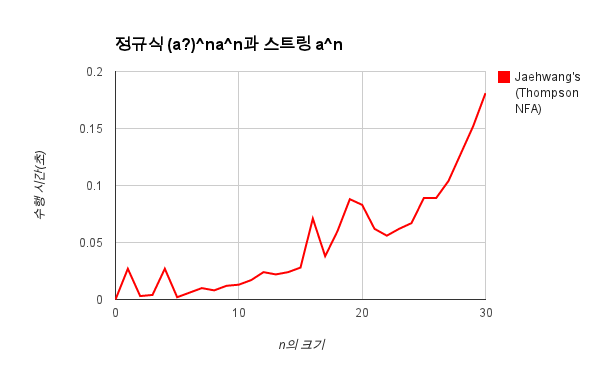
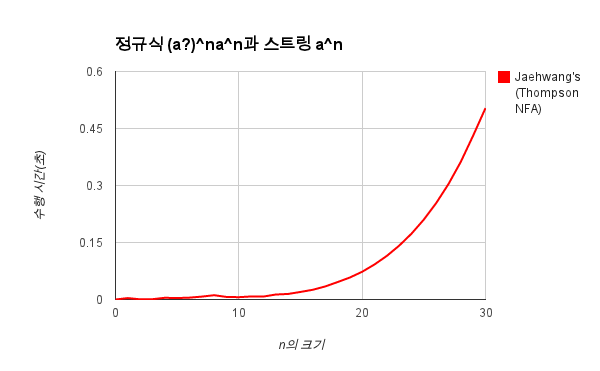
time complexity 추가

diff --git a/doc/a.tex b/doc/a.tex
@@ -35,7 +35,7 @@ microsenconds인 점을 주목하라.
 
 Figure \ref{fig:graph}의 결과는 backtracking의 존재 여부에 따른 것이다.
 오늘날 거의 대부분의 프로그래밍 언어들은 속도 보다는 backreference 등의 기능을 
-제공하기 위해  NFA 기반의 정규 표현식 구현을 채택하고
+제공하기 위해 NFA와 backtracking 기반의 정규 표현식 구현을 채택하고
 있다.
 
 \begin{block}{Example}
@@ -65,11 +65,21 @@ match된다는 것을 알 수 있다. 하지만 NFA 기반 정규 표현식 matc
 \frametitle{수행 시간이 입력의 크기에 선형적으로 비례하는 Regular Expression Matcher}
 
 실제 정규 표현식의 적용에서 backreference 등 유연하고 
-다양한 feature가 필요 없는 경우가 많다.
+다양한 feature가 필요 없는 경우가 많다. 
+느린 수행 시간은 ReDoS\footnote{\href{http://en.wikipedia.org/wiki/ReDos}{Regular expression denial of service}}와 
+같은 보안 취약점이 될 수도 있다.
 여기서 speed, reliability 등이 보장되는 regular expression matcher의 
-필요성이 대두 된다.
+필요성이 대두 된다. 
 
-개발자에게 하나의 선택권만 주는 것 보다는 하나의 옵션을 더 제공함으로써
-요구사항에 맞는 기능을 개발할 수 있게 할 필요가 있다.
+정규 표현식 $re$의 크기(혹은 NFA 상태 수) $m$, 
+입력 스트링의 길이를 $n$이라고 할 때, $re$를 FA로 변환하고 match하는 경우의
+time complexity이다:
 
+\begin{itemize}
+\item NFA : $O(m) + O(2^n)$
+\item DFA : $O(m2^m) + O(n)$
+\end{itemize}
+
+우리가 원하는 regular expression matcher는 $O(2^n)$이나 $O(m2^n)$ 같은 것이
+없어야 한다.
 \end{frame}

diff --git a/doc/r.tex b/doc/r.tex
@@ -83,7 +83,7 @@ $L(re)$:
 우리가 만들고자 하는 regular expression matcher \M의 
 specification을 다음과 같이 정의하자.
 
-\begin{block}
+\begin{block}{Requirement 1}
 
 \[
     \M : \mbit{Regex} \times \mbit{String} \ra \mbit{Bool}
@@ -92,7 +92,7 @@ specification을 다음과 같이 정의하자.
 In order to be a correct solution of regular expression matcher problem, 
 our regular expression matcher \M{} is supposed to satisfy the following:
  \[
-    \rmatch{s}{re} = \T \Lra s \in L(re) 
+    \mbrm{Req 1.}\ \rmatch{s}{re} = \T \Lra s \in L(re) 
  \]
 where $s$ is a string and $re$ is a regular expression.
 
@@ -104,10 +104,8 @@ where $s$ is a string and $re$ is a regular expression.
 \]
 \end{block}
 
-
-여기에 다음의 조건 하나를 추가 한다.
-\begin{quote}
-수행 시간은 입력의 길이에 선형적으로 비례해야 한다. 
-\end{quote}
+\begin{block}{Requirement 2}
+수행 시간은 $|re|$, $|s|$에 지수적으로 비례해서 길어지는 경우가 없어야 한다.
+\end{block}
 
 \end{frame}

diff --git a/doc/t.tex b/doc/t.tex
@@ -31,12 +31,6 @@ for (my $ssize = 1; $ssize<=30; $ssize++) {
 \begin{frame}
     \frametitle{Test Results}
 
-NFA 기반의 정규 표현식 구현은 backtracking이 많은 경우에는 치명적인
-성능 문제를 일으킬 잠재적인 위험이 있다.
-
-우리의 구현 \MM은 backtracking이 없기 때문에 입력값의 길이에 선형적으로
-비례하는 수행 시간을 보여 준다.
-
 \[
     \rmatch{a}{a?a},  \rmatch{aa}{a?a?aa}, \dots,
     \rmatch{a^{30}}{(a?)^{30}a^{30}}
@@ -52,5 +46,8 @@ NFA 기반의 정규 표현식 구현은 backtracking이 많은 경우에는 치
 \caption{왼쪽은 Perl과 \MM의 결과를 함께 보여주고, 오른쪽은 \MM의
     결과만 보여준다.}
 \end{figure}
- 
+
+정규 표현식의 크기가 $m$, 스트링의 길이가 $n$일 때,
+우리의 regular expression matcher는 $O(mn)$의 time complexity를 가진다.
+
 \end{frame}
